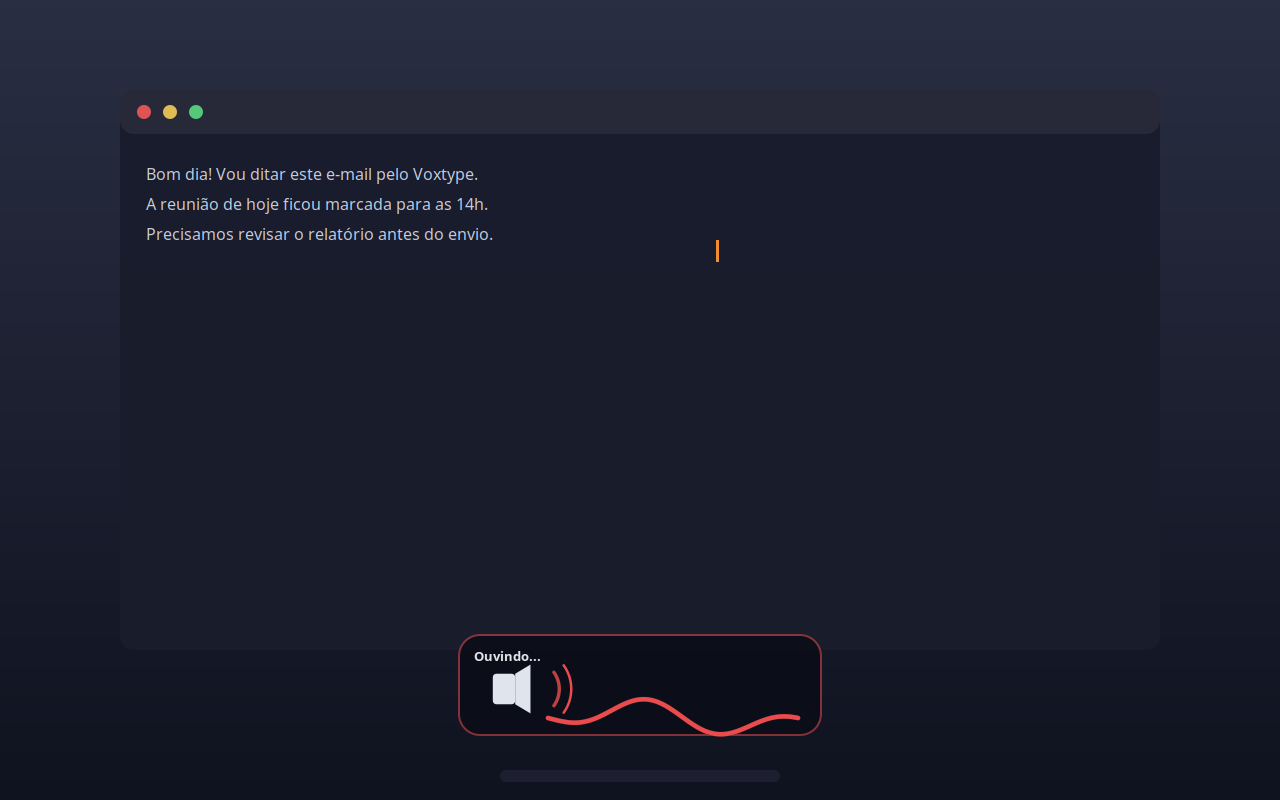
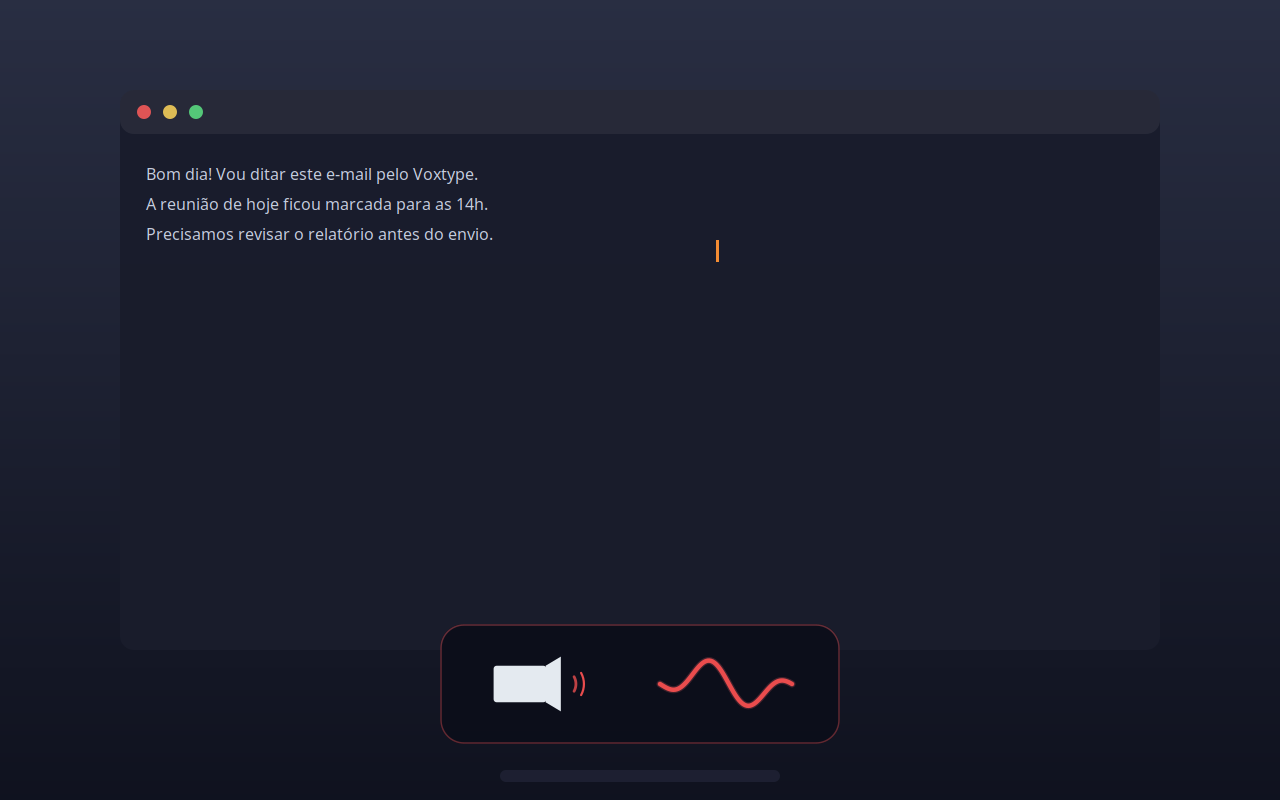
fix: OSD redesenho estilo Gemini (onda 100% contida) + notificacao desligada (foco)
- bin/voxtype-osd: novo layout (400x120) estilo Gemini/referencia: pílula
  escura, speaker a esquerda com arco que cresce com a voz, onda senoidal
  dominante SEMPRE contida (verificado: 0 pixels fora da pílula em todas
  as combinacoes de estado/nivel/fase)
- config: on_transcription=false — o pop-up de notificacao podia roubar o
  foco da caixa de dialogo entre a transcricao e a colagem; feedback fica
  no OSD (azul pulsante)
- docs: screenshots/GIF/hero regenerados com o novo design

Changed region(s): [[0.3438, 0.7812, 0.6562, 0.9375]]

diff --git a/docs/generate_screenshots.py b/docs/generate_screenshots.py
@@ -21,8 +21,9 @@ _ns = {"__name__": "voxtype_osd_screenshot"}
 with open(os.path.join(ROOT, "bin", "voxtype-osd")) as f:
     exec(compile(f.read(), "voxtype-osd", "exec"), _ns)
 draw_osd = _ns["draw_osd"]
+OSD_W, OSD_H = _ns["OSD_W"], _ns["OSD_H"]
 
-W, H = 380, 118
+W, H = OSD_W, OSD_H
 OUT = os.path.join(os.path.dirname(__file__), "imgs")
 
 
